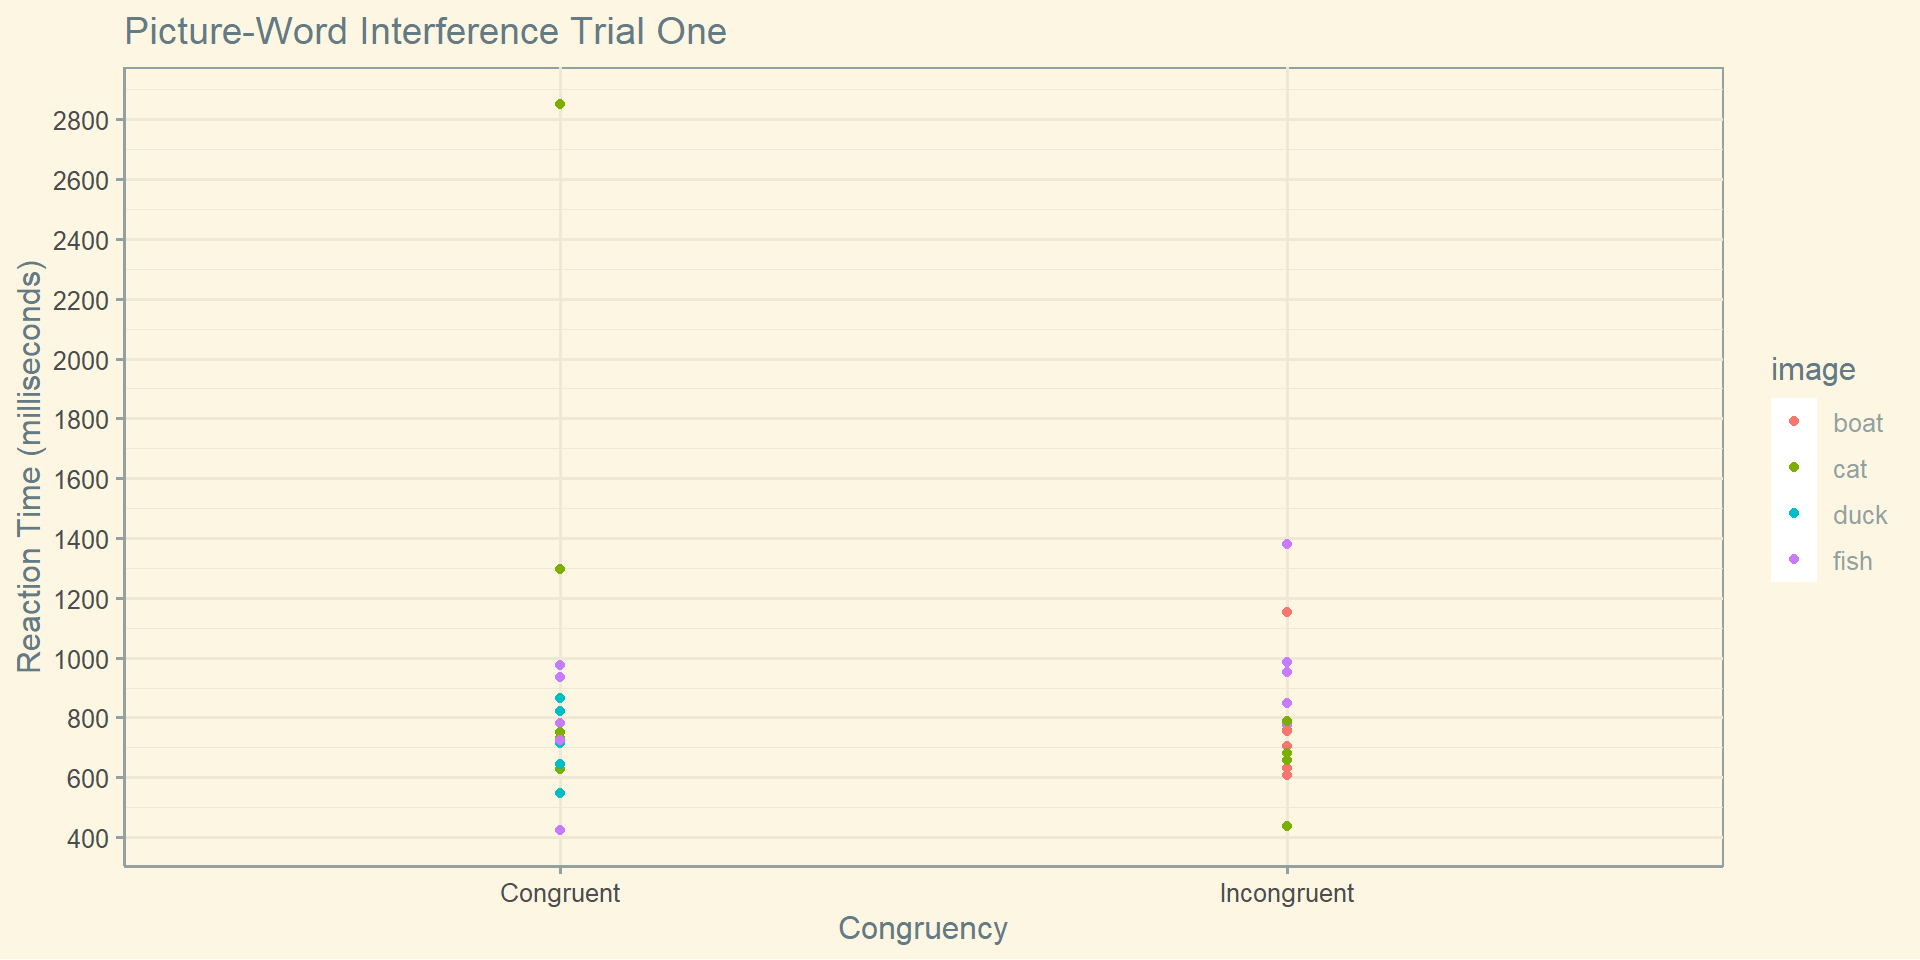
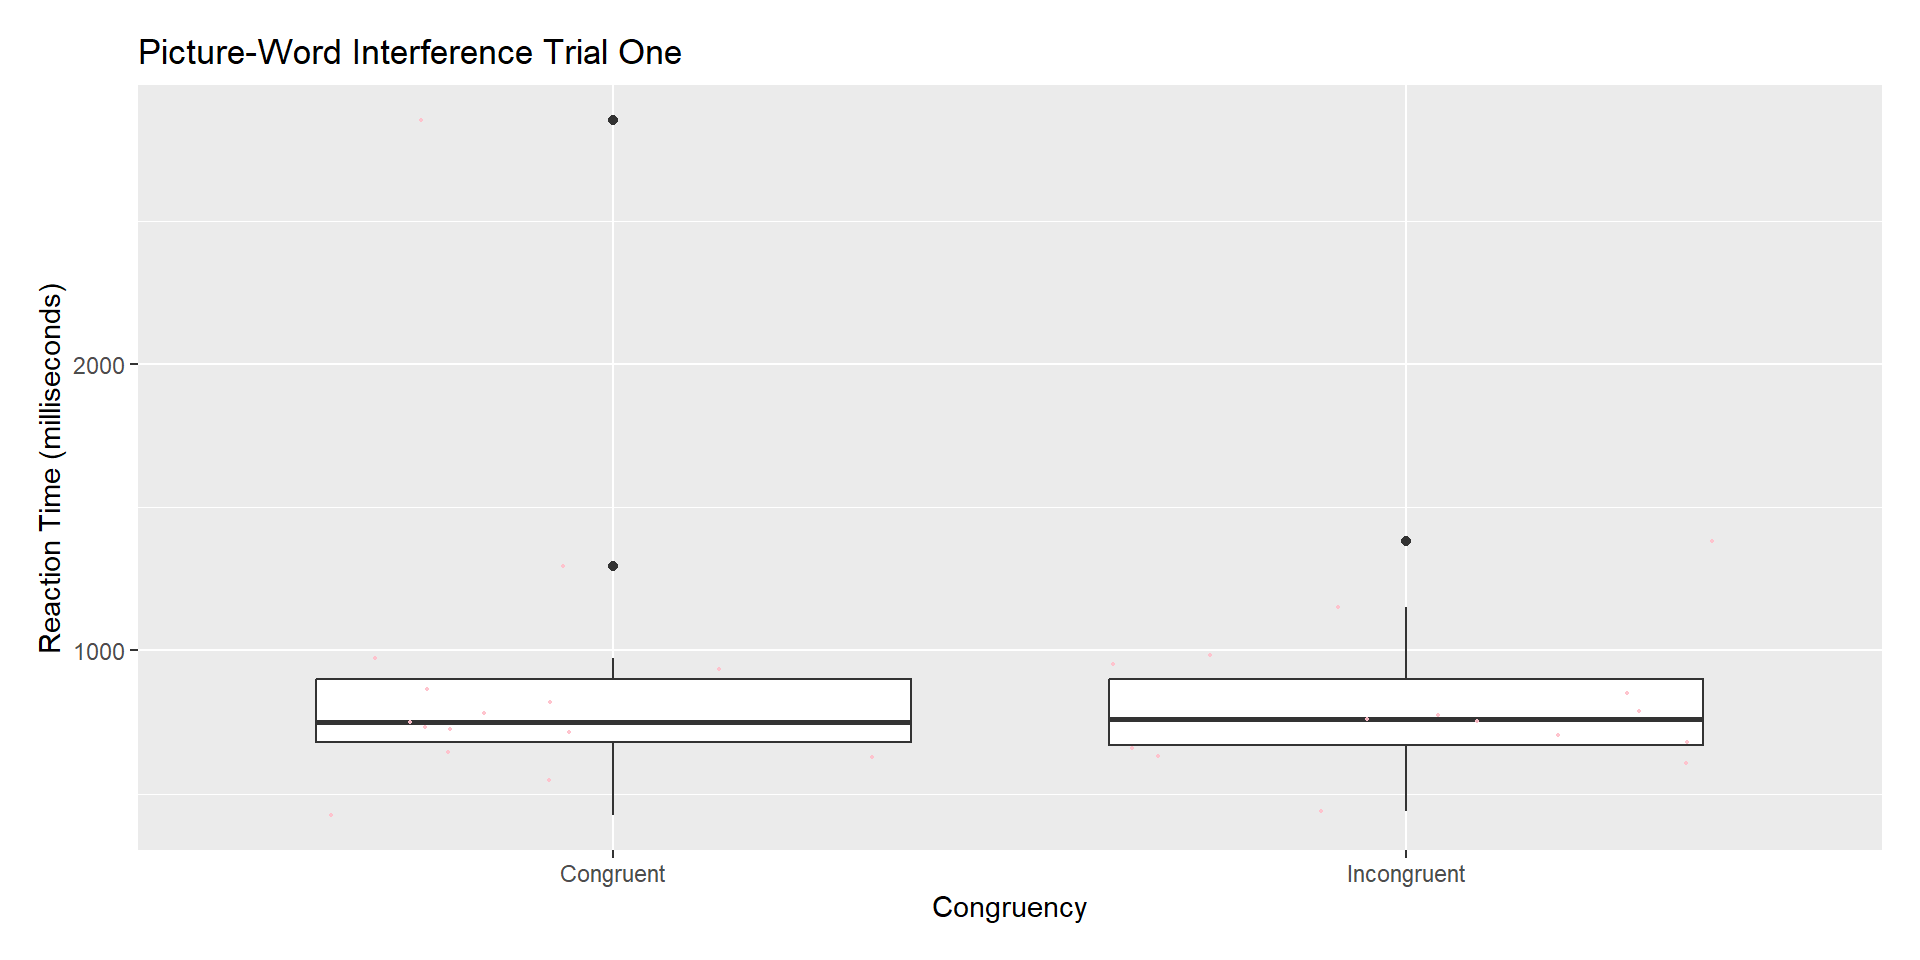
edits

diff --git a/docs/posts/Week 5/index.html b/docs/posts/Week 5/index.html
@@ -181,30 +181,10 @@ pre > code.sourceCode > span > a:first-child::before { text-decoration: underlin
 <div class="sourceCode cell-code" id="cb1"><pre class="sourceCode r code-with-copy"><code class="sourceCode r"><span id="cb1-1"><a href="#cb1-1" aria-hidden="true" tabindex="-1"></a>trial_one <span class="ot">&lt;-</span> <span class="fu">read_xlsx</span>(<span class="st">"data/first_raw_data.xlsx"</span>)</span></code><button title="Copy to Clipboard" class="code-copy-button"><i class="bi"></i></button></pre></div>
 </div>
 <div class="cell">
-<div class="sourceCode cell-code" id="cb2"><pre class="sourceCode r code-with-copy"><code class="sourceCode r"><span id="cb2-1"><a href="#cb2-1" aria-hidden="true" tabindex="-1"></a><span class="fu">glimpse</span>(trial_one)</span></code><button title="Copy to Clipboard" class="code-copy-button"><i class="bi"></i></button></pre></div>
-<div class="cell-output cell-output-stdout">
-<pre><code>Rows: 63
-Columns: 14
-$ rt               &lt;chr&gt; "2764", "986", "null", "424", "null", "1295", "null",…
-$ stimulus         &lt;chr&gt; "\r\r\n              &lt;p style='color:dodgerblue; font…
-$ response         &lt;chr&gt; "0", "d", "null", "d", "null", "c", "null", "c", "nul…
-$ screen_id        &lt;chr&gt; "welcome", NA, NA, NA, NA, NA, NA, NA, NA, NA, NA, NA…
-$ trial_type       &lt;chr&gt; "html-button-response", "html-keyboard-response", "ht…
-$ trial_index      &lt;dbl&gt; 0, 1, 2, 3, 4, 5, 6, 7, 8, 9, 10, 11, 12, 13, 14, 15,…
-$ time_elapsed     &lt;dbl&gt; 2764, 3751, 6763, 7188, 8201, 9497, 11503, 12208, 142…
-$ internal_node_id &lt;chr&gt; "0.0-0.0", "0.0-1.0", "0.0-2.0-0.0", "0.0-2.0-1.0", "…
-$ task             &lt;chr&gt; NA, NA, "fixation", "stroop", "fixation", "stroop", "…
-$ correct_response &lt;chr&gt; NA, NA, NA, "f", NA, "c", NA, "c", NA, "d", NA, "b", …
-$ image            &lt;chr&gt; NA, NA, NA, "fish", NA, "cat", NA, "boat", NA, "duck"…
-$ word             &lt;chr&gt; NA, NA, NA, "fish", NA, "cat", NA, "cat", NA, "duck",…
-$ congruency       &lt;chr&gt; NA, NA, NA, "Congruent", NA, "Congruent", NA, "Incong…
-$ correct          &lt;lgl&gt; NA, NA, NA, FALSE, NA, TRUE, NA, TRUE, NA, TRUE, NA, …</code></pre>
+<div class="sourceCode cell-code" id="cb2"><pre class="sourceCode r code-with-copy"><code class="sourceCode r"><span id="cb2-1"><a href="#cb2-1" aria-hidden="true" tabindex="-1"></a><span class="co">#glimpse(trial_one)</span></span>
+<span id="cb2-2"><a href="#cb2-2" aria-hidden="true" tabindex="-1"></a></span>
+<span id="cb2-3"><a href="#cb2-3" aria-hidden="true" tabindex="-1"></a><span class="co">#(trial_one)</span></span></code><button title="Copy to Clipboard" class="code-copy-button"><i class="bi"></i></button></pre></div>
 </div>
-<div class="sourceCode cell-code" id="cb4"><pre class="sourceCode r code-with-copy"><code class="sourceCode r"><span id="cb4-1"><a href="#cb4-1" aria-hidden="true" tabindex="-1"></a><span class="co">#(trial_one)</span></span></code><button title="Copy to Clipboard" class="code-copy-button"><i class="bi"></i></button></pre></div>
-</div>
-</section>
-<section id="reaction-time-vs-congruency-image-stimuli" class="level3">
-<h3 class="anchored" data-anchor-id="reaction-time-vs-congruency-image-stimuli">Reaction Time vs Congruency (image stimuli)</h3>
 <div class="cell" data-layout-align="center">
 <div class="cell-output cell-output-stderr">
 <pre><code>Warning: There was 1 warning in `mutate()`.
@@ -221,8 +201,8 @@ Caused by warning:
 </div>
 </div>
 </section>
-<section id="reaction-time-histogram" class="level3">
-<h3 class="anchored" data-anchor-id="reaction-time-histogram">Reaction Time Histogram</h3>
+<section id="reaction-time-vs-congruency-image-stimuli" class="level3">
+<h3 class="anchored" data-anchor-id="reaction-time-vs-congruency-image-stimuli">Reaction Time vs Congruency (image stimuli)</h3>
 <div class="cell" data-layout-align="center">
 <div class="cell-output cell-output-stderr">
 <pre><code>Warning: There was 1 warning in `mutate()`.
@@ -230,16 +210,28 @@ Caused by warning:
 Caused by warning:
 ! NAs introduced by coercion</code></pre>
 </div>
-<div class="cell-output cell-output-stderr">
-<pre><code>Warning in geom_histogram(bin = 10): Ignoring unknown parameters: `bin`</code></pre>
-</div>
-<div class="cell-output cell-output-stderr">
-<pre><code>`stat_bin()` using `bins = 30`. Pick better value with `binwidth`.</code></pre>
-</div>
 <div class="cell-output-display">
 <div class="quarto-figure quarto-figure-center">
 <figure class="figure">
 <p><img src="index_files/figure-html/unnamed-chunk-5-1.png" class="img-fluid figure-img" width="960"></p>
+</figure>
+</div>
+</div>
+</div>
+</section>
+<section id="histogram" class="level3">
+<h3 class="anchored" data-anchor-id="histogram">Histogram</h3>
+<div class="cell" data-layout-align="center">
+<div class="cell-output cell-output-stderr">
+<pre><code>Warning: There was 1 warning in `mutate()`.
+ℹ In argument: `rt = as.numeric(rt)`.
+Caused by warning:
+! NAs introduced by coercion</code></pre>
+</div>
+<div class="cell-output-display">
+<div class="quarto-figure quarto-figure-center">
+<figure class="figure">
+<p><img src="index_files/figure-html/unnamed-chunk-6-1.png" class="img-fluid figure-img" width="672"></p>
 </figure>
 </div>
 </div>

diff --git a/docs/index.html b/docs/index.html
@@ -231,7 +231,7 @@ Topics in Cognitive Psychology: A Slide Deck
 <a href="./posts/Week 1/index.html"> </a>
 </div>
 </div>
-<div class="quarto-post image-right" data-index="1" data-listing-date-sort="1696478400000" data-listing-file-modified-sort="1696167636429" data-listing-date-modified-sort="NaN" data-listing-reading-time-sort="2">
+<div class="quarto-post image-right" data-index="1" data-listing-date-sort="1696478400000" data-listing-file-modified-sort="1696215510422" data-listing-date-modified-sort="NaN" data-listing-reading-time-sort="2">
 <div class="thumbnail">
 <p><a href="./posts/Week 5/index.html"> <img src="./posts/Week 5/droid_ap_5_space_song.jpg" class="thumbnail-image"> </a></p>
 </div>
